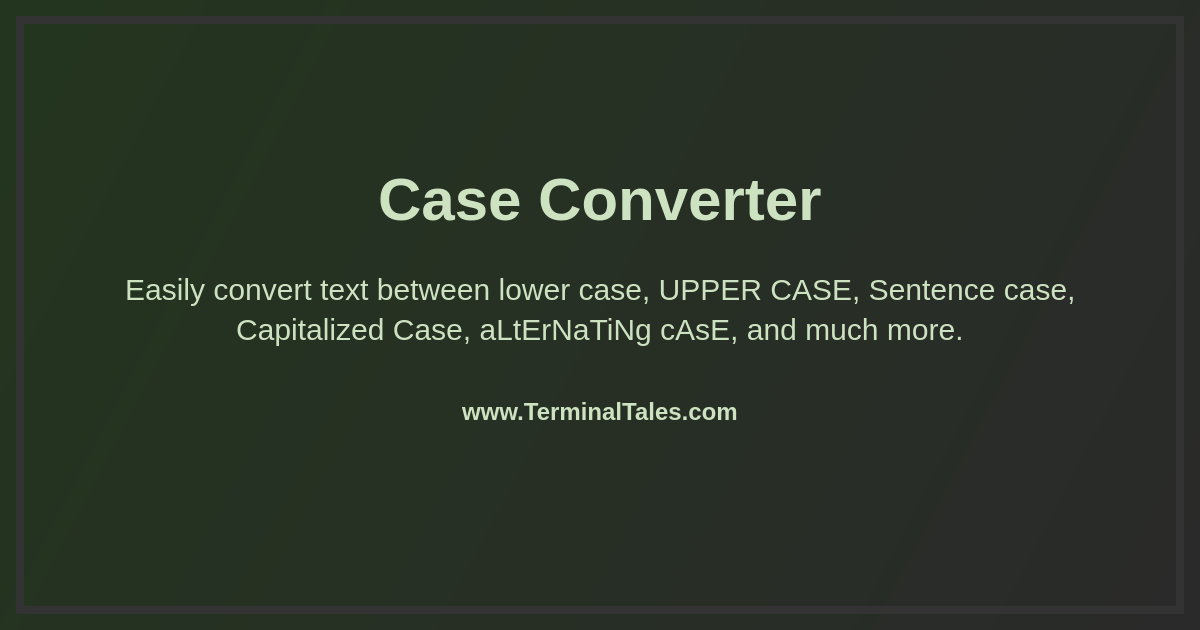
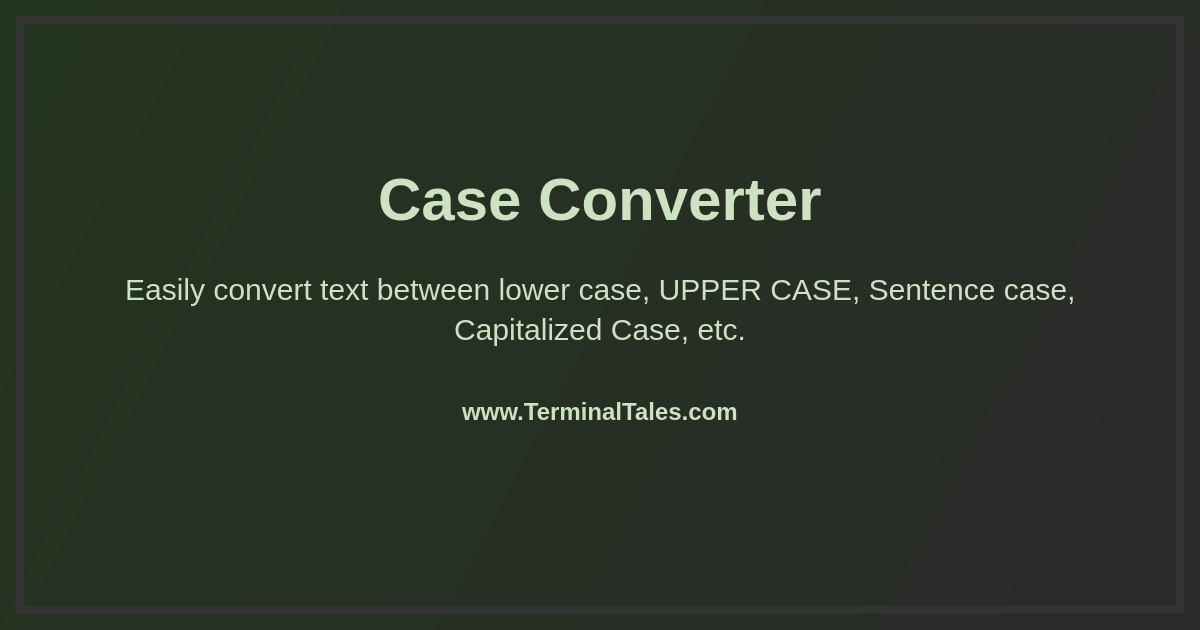
deploy: dc4636622a578aa8a0ee418402a6ea8fbdf4c81a

Changed region(s): [[0.185, 0.4825, 0.8017, 0.5429]]

diff --git a/assets/components.js b/assets/components.js
@@ -1,2 +1,2 @@
 const __vite__mapDeps=(i,m=__vite__mapDeps,d=(m.f||(m.f=["./framework-main.js","./external-utils.js"])))=>i.map(i=>d[i]);
-import{j as e,H as N,r as i,a as w,S as T,M as S,X as L,b as P,T as R,U as F,C as M,c as I,D as b,d as z,E as A}from"./framework-main.js";import{L as C,u as k}from"./navigation.js";import{T as H,A as O,a as D,F as U,l as _}from"./ui-components.js";import{g as j}from"./external-utils.js";const g=[{category:"HTML Tools",urlPath:"html-tools",originalFolder:"HTML-Tools",projects:[{name:"HTML Minify",displayName:"HTML Minify",description:"Minify HTML code effortlessly Reduce file size, improve page load times, and boost website performance.",toolicon:"Code",path:"/html-tools/html-minify",image:"/html-tools/html-minify.png",fileName:"HTML-Minify/index.jsx"}]},{category:"Text Tools",urlPath:"text-tools",originalFolder:"Text-Tools",projects:[{name:"Case Converter",displayName:"Case Converter",description:"Easily convert text between lower case, UPPER CASE, Sentence case, Capitalized Case, aLtErNaTiNg cAsE, and much more.",toolicon:"ALargeSmall",path:"/text-tools/case-converter",image:"/text-tools/case-converter.png",fileName:"Case-Converter/index.jsx"}]}],B="modulepreload",$=function(s,t){return new URL(s,t).href},v={},Y=function(t,a,n){let o=Promise.resolve();if(a&&a.length>0){const c=document.getElementsByTagName("link"),r=document.querySelector("meta[property=csp-nonce]"),m=(r==null?void 0:r.nonce)||(r==null?void 0:r.getAttribute("nonce"));o=Promise.allSettled(a.map(u=>{if(u=$(u,n),u in v)return;v[u]=!0;const d=u.endsWith(".css"),x=d?'[rel="stylesheet"]':"";if(!!n)for(let f=c.length-1;f>=0;f--){const p=c[f];if(p.href===u&&(!d||p.rel==="stylesheet"))return}else if(document.querySelector(`link[href="${u}"]${x}`))return;const h=document.createElement("link");if(h.rel=d?"stylesheet":B,d||(h.as="script"),h.crossOrigin="",h.href=u,m&&h.setAttribute("nonce",m),document.head.appendChild(h),d)return new Promise((f,p)=>{h.addEventListener("load",f),h.addEventListener("error",()=>p(new Error(`Unable to preload CSS for ${u}`)))})}))}function l(c){const r=new Event("vite:preloadError",{cancelable:!0});if(r.payload=c,window.dispatchEvent(r),!r.defaultPrevented)throw c}return o.then(c=>{for(const r of c||[])r.status==="rejected"&&l(r.reason);return t().catch(l)})},q=({project:s,Icon:t})=>e.jsx("div",{className:"bg-base-200/30 shadow-xl w-full card",children:e.jsxs("div",{className:"card-body",children:[e.jsxs("h3",{className:"card-title",children:[t?e.jsx(t,{className:"mr-1"}):e.jsx("span",{className:"mr-1",children:e.jsx(N,{})}),s.name]}),s.description&&e.jsx("p",{children:s.description}),e.jsx("div",{className:"justify-end card-actions",children:e.jsx(C,{to:s.path,className:"btn btn-primary",children:s.buttonText||"Try Now"})})]})}),G=async s=>{try{const{[s]:t}=await Y(async()=>{const{[s]:a}=await import("./framework-main.js").then(n=>n.l);return{[s]:a}},__vite__mapDeps([0,1]),import.meta.url);return t}catch(t){return console.error(`Error loading icon: ${s}`,t),null}},E=()=>{const[s,t]=i.useState({});return i.useEffect(()=>{(async()=>{const n={};g.forEach(c=>{c.projects.forEach(r=>{n[r.name]=G(r.toolicon)})});const o=await Promise.all(Object.values(n)),l=Object.keys(n).reduce((c,r,m)=>(c[r]=o[m],c),{});t(l)})()},[]),s},se=()=>e.jsx("footer",{className:"footer footer-center mt-4 rounded bg-base-200 p-10 text-base-content",children:e.jsxs("aside",{children:[e.jsxs("p",{children:["Copyright © ",new Date().getFullYear()," - MIT License"]}),e.jsxs("p",{children:["Made with 🧡 by"," ",e.jsx("a",{href:"https://github.com/",target:"_blank",children:"Harman Singh Hira"})," ","in Aotearoa 🇳🇿"]})]})}),W=({menuState:s,node:t})=>{const a=E();return e.jsx("aside",{ref:t,className:`fixed left-0 top-0 z-10 h-screen w-80 border-r-2 border-base-100 bg-base-200 transition-transform duration-300 xl:translate-x-0 ${s?"translate-x-0":"-translate-x-full"}`,children:e.jsx("div",{className:"pt-16",children:e.jsx("div",{className:"p-4",children:e.jsx("ul",{className:"menu w-full rounded-box bg-base-200",children:g.map((n,o)=>e.jsx("li",{children:e.jsxs("details",{open:!0,children:[e.jsxs("summary",{className:"font-semibold",children:[e.jsx(w,{size:18}),n.category]}),e.jsx("ul",{children:n.projects.map((l,c)=>{const r=a[l.name];return e.jsx("li",{children:e.jsxs(C,{to:l.path,children:[r?e.jsx(r,{size:18}):e.jsx(N,{size:18}),l.name]})},c)})})]})},o))})})})})},X=()=>{const[s,t]=i.useState(!1);i.useEffect(()=>{localStorage.getItem("theme")==="dark"?(t(!0),document.documentElement.setAttribute("data-theme","dark")):(t(!1),document.documentElement.setAttribute("data-theme","light"))},[]);const a=()=>{const n=s?"light":"dark";t(!s),document.documentElement.setAttribute("data-theme",n),localStorage.setItem("theme",n)};return e.jsxs("label",{className:"btn btn-ghost swap swap-rotate transition-transform duration-100 hover:scale-110 hover:bg-transparent",children:[e.jsx("input",{type:"checkbox",className:"theme-controller",checked:s,onChange:a,"aria-label":"Toggle dark mode"}),e.jsx(T,{className:"swap-off"}),e.jsx(S,{className:"swap-on"})]})},V=({menuState:s,setMenuState:t,buttonNode:a})=>e.jsxs("nav",{className:"navbar fixed z-20 bg-base-300",children:[e.jsx("div",{className:"flex-none",children:e.jsx("button",{ref:a,className:"btn btn-square btn-ghost transition-transform duration-100 hover:scale-110 hover:bg-transparent xl:hidden",onClick:()=>t(!s),"aria-label":s?"Close menu":"Open menu",children:s?e.jsx(L,{}):e.jsx(P,{})})}),e.jsx("div",{className:"flex-1",children:e.jsxs("a",{className:"btn btn-ghost text-xl",href:"/",children:[e.jsx(R,{})," ",e.jsx("h1",{children:"TerminalTales"})]})}),e.jsxs("div",{children:[e.jsx("ul",{className:"menu menu-horizontal px-1",children:e.jsx("li",{children:e.jsxs("details",{children:[e.jsxs("summary",{children:[e.jsx(H,{size:20})," Follow"]}),e.jsxs("ul",{className:"rounded-t-none bg-base-100 p-2",children:[e.jsx("li",{children:e.jsxs("a",{href:"https://instagram.com/hsinghhira",children:[e.jsx(O,{size:20})," Instagram"]})}),e.jsx("li",{children:e.jsxs("a",{href:"https://github.com/HSinghHira",children:[e.jsx(D,{size:20}),"Github"]})}),e.jsx("li",{children:e.jsxs("a",{href:"https://hsinghhira.bsky.social/",children:[e.jsx(U,{size:20})," Bluesky"]})})]})]})})}),e.jsx(X,{})]})]}),te=()=>{const[s,t]=i.useState(!1),a=i.useRef(),n=i.useRef(),o=l=>{a.current.contains(l.target)||n.current.contains(l.target)||t(!1)};return i.useEffect(()=>(s?document.addEventListener("mousedown",o):document.removeEventListener("mousedown",o),()=>{document.removeEventListener("mousedown",o)}),[s]),e.jsxs(e.Fragment,{children:[e.jsx(V,{menuState:s,setMenuState:t,buttonNode:n}),e.jsx(W,{menuState:s,node:a})]})},J=(s,t)=>{const a=k();i.useEffect(()=>{const n=j.context(()=>{j.fromTo(s.current,{opacity:0,y:20},{opacity:1,y:0,duration:.1,ease:"power2.out",delay:.05})});return()=>n.revert()},[]),i.useEffect(()=>{const n=j.context(()=>{j.timeline().fromTo(t.current,{scaleY:0},{scaleY:1,duration:.1,ease:"power4.inOut"}).to(s.current,{opacity:0,y:-20,duration:.2}).to(t.current,{scaleY:0,duration:.1,ease:"power4.inOut"}).fromTo(s.current,{opacity:0,y:20},{opacity:1,y:0,duration:.1,ease:"power2.out"},"-=0.05")});return()=>n.revert()},[a.pathname])},ne=({children:s})=>{const t=i.useRef(null),a=i.useRef(null),n=i.useRef(null);return J(t,a),e.jsxs("div",{className:"relative",children:[e.jsx("div",{ref:a,className:"pointer-events-none fixed inset-0 z-50 origin-top bg-primary/10 backdrop-blur-sm",style:{scaleY:0}}),e.jsx("div",{ref:n,className:"pointer-events-none fixed inset-0 z-50 flex items-center justify-center",style:{opacity:0},children:e.jsx("div",{className:"h-12 w-12 animate-spin rounded-full border-4 border-primary border-t-transparent"})}),e.jsx("div",{ref:t,className:"transition-wrapper",children:s})]})},ae=({onFileContent:s})=>{const t=a=>{const n=a.target.files[0];if(n){const o=new FileReader;o.onload=l=>{const c=l.target.result;s&&s(c)},o.onerror=l=>{console.error("Error reading file:",l)},o.readAsText(n)}};return e.jsxs(e.Fragment,{children:[e.jsxs("label",{htmlFor:"fileUpload",className:"btn btn-secondary",children:[e.jsx(F,{className:"w-5 h-5 mr"}),e.jsx("span",{className:"sm:block hidden",children:"Choose File"})]}),e.jsx("input",{id:"fileUpload",type:"file",className:"hidden",accept:".html,.txt",onChange:t})]})},re=({output:s})=>{const[t,a]=i.useState(!1);return i.useEffect(()=>{if(t){const n=setTimeout(()=>a(!1),5e3);return()=>clearTimeout(n)}},[t]),e.jsx(_.CopyToClipboard,{text:s,onCopy:()=>a(!0),children:e.jsx("button",{className:"btn btn-secondary",children:t?e.jsxs("div",{className:"flex items-center",children:[e.jsx(M,{className:"w-5 h-5"})," ",e.jsx("span",{className:"sm:block hidden ml-2",children:" Copied"})]}):e.jsxs("div",{className:"flex items-center",children:[e.jsx(I,{className:"w-5 h-5"})," ",e.jsx("span",{className:"sm:block hidden ml-2",children:" Copy"})]})})})},oe=({formats:s=[],content:t})=>{const[a,n]=i.useState(s[0]||"txt"),[o,l]=i.useState(!1),c=i.useRef(null);i.useEffect(()=>{s.length>0&&!s.includes(a)&&n(s[0])},[s,a]),i.useEffect(()=>{const d=x=>{c.current&&!c.current.contains(x.target)&&l(!1)};return document.addEventListener("mousedown",d),()=>{document.removeEventListener("mousedown",d)}},[]);const r=d=>`output_${Math.floor(Math.random()*1e4)}.${d}`,m=d=>{const x=r(d),y=new Blob([t],{type:"text/plain"}),h=document.createElement("a");h.href=URL.createObjectURL(y),h.download=x,h.click()},u=()=>{l(!o)};return s.length===0?e.jsxs("button",{onClick:()=>m("txt"),className:"flex btn btn-secondary",children:[e.jsx(b,{className:"w-5 h-5 mr"})," ",e.jsx("span",{className:"sm:block hidden ml-2",children:" Save as .TXT"})]}):s.length===1?e.jsxs("button",{onClick:()=>m(s[0]),className:"flex btn btn-secondary",children:[e.jsx(b,{className:"w-5 h-5 mr"})," ",e.jsxs("span",{className:"sm:block hidden ml-2",children:[" ","Save as .",s[0].toUpperCase()," "]})]}):e.jsxs("div",{className:"inline-block relative text-left",ref:c,children:[e.jsx("button",{type:"button",className:"btn btn-secondary",onClick:u,"aria-expanded":o,"aria-haspopup":"true",children:e.jsxs("div",{className:"flex items-center",children:[e.jsx(b,{className:"w-5 h-5"})," ",e.jsx("span",{className:"sm:block hidden ml-2",children:" Save as"}),e.jsx(z,{className:`ml-2 w-5 h-5 ${o?"rotate-180":""}`})]})}),o&&e.jsx("div",{className:"right-0 absolute bg-base-200 ring-opacity-5 shadow-lg mt-2 rounded-md divide-y ring-1 ring-black w-56 origin-top-right",children:e.jsx("div",{className:"py-1",role:"menu","aria-orientation":"vertical","aria-labelledby":"options-menu",children:s.map(d=>e.jsxs("a",{href:"#",className:"block hover:bg-base-300 px-4 py-2 text-sm",role:"menuitem",onClick:x=>{x.preventDefault(),n(d),l(!1),m(d)},children:["Save as .",d.toUpperCase()," Format"]},d))})})]})},le=()=>{const s=k(),t=E(),[a]=s.pathname.split("/").slice(1),n=g.find(r=>{var m;return((m=r.urlPath)==null?void 0:m.toLowerCase())===a});if(!n)return console.log("Category not found."),null;const o=s.pathname,l=n.projects.filter(r=>r.path!==o);if(l.length===0)return null;const c=l.slice(0,2);return e.jsxs("div",{className:"mt-8 p-4",children:[e.jsxs("h2",{className:"mb-4 flex items-center text-2xl font-semibold",children:[e.jsx(w,{className:"mr-2 duration-300 hover:rotate-12",size:30})," Related Projects"]}),e.jsx("div",{className:"grid grid-cols-1 gap-4 md:grid-cols-2",children:c.map((r,m)=>{const u=t[r.name]||null;return e.jsx(q,{project:r,Icon:u},m)})})]})},ce=({onClear:s})=>e.jsxs("button",{className:"btn btn-secondary",onClick:s,children:[e.jsx(A,{className:"w-5"})," ",e.jsx("span",{className:"ml-2 hidden sm:block",children:" Clear"})]});export{q as C,se as F,te as H,ne as P,le as R,oe as S,Y as _,ae as a,re as b,ce as c,g as r,E as u};
+import{j as e,H as N,r as i,a as w,S as T,M as S,X as L,b as P,T as R,U as F,C as M,c as I,D as b,d as z,E as H}from"./framework-main.js";import{L as C,u as k}from"./navigation.js";import{T as A,A as O,a as D,F as U,l as _}from"./ui-components.js";import{g as j}from"./external-utils.js";const g=[{category:"HTML Tools",urlPath:"html-tools",originalFolder:"HTML-Tools",projects:[{name:"HTML Minify",displayName:"HTML Minify",description:"Minify HTML code effortlessly Reduce file size, improve page load times, and boost website performance.",toolicon:"Code",path:"/html-tools/html-minify",image:"/html-tools/html-minify.png",fileName:"HTML-Minify/index.jsx"}]},{category:"Text Tools",urlPath:"text-tools",originalFolder:"Text-Tools",projects:[{name:"Case Converter",displayName:"Case Converter",description:"Easily convert text between lower case, UPPER CASE, Sentence case, Capitalized Case, etc.",toolicon:"ALargeSmall",path:"/text-tools/case-converter",image:"/text-tools/case-converter.png",fileName:"Case-Converter/index.jsx"}]}],B="modulepreload",$=function(s,t){return new URL(s,t).href},v={},Y=function(t,a,n){let o=Promise.resolve();if(a&&a.length>0){const c=document.getElementsByTagName("link"),r=document.querySelector("meta[property=csp-nonce]"),m=(r==null?void 0:r.nonce)||(r==null?void 0:r.getAttribute("nonce"));o=Promise.allSettled(a.map(u=>{if(u=$(u,n),u in v)return;v[u]=!0;const d=u.endsWith(".css"),x=d?'[rel="stylesheet"]':"";if(!!n)for(let f=c.length-1;f>=0;f--){const p=c[f];if(p.href===u&&(!d||p.rel==="stylesheet"))return}else if(document.querySelector(`link[href="${u}"]${x}`))return;const h=document.createElement("link");if(h.rel=d?"stylesheet":B,d||(h.as="script"),h.crossOrigin="",h.href=u,m&&h.setAttribute("nonce",m),document.head.appendChild(h),d)return new Promise((f,p)=>{h.addEventListener("load",f),h.addEventListener("error",()=>p(new Error(`Unable to preload CSS for ${u}`)))})}))}function l(c){const r=new Event("vite:preloadError",{cancelable:!0});if(r.payload=c,window.dispatchEvent(r),!r.defaultPrevented)throw c}return o.then(c=>{for(const r of c||[])r.status==="rejected"&&l(r.reason);return t().catch(l)})},q=({project:s,Icon:t})=>e.jsx("div",{className:"bg-base-200/30 shadow-xl w-full card",children:e.jsxs("div",{className:"card-body",children:[e.jsxs("h3",{className:"card-title",children:[t?e.jsx(t,{className:"mr-1"}):e.jsx("span",{className:"mr-1",children:e.jsx(N,{})}),s.name]}),s.description&&e.jsx("p",{children:s.description}),e.jsx("div",{className:"justify-end card-actions",children:e.jsx(C,{to:s.path,className:"btn btn-primary",children:s.buttonText||"Try Now"})})]})}),G=async s=>{try{const{[s]:t}=await Y(async()=>{const{[s]:a}=await import("./framework-main.js").then(n=>n.l);return{[s]:a}},__vite__mapDeps([0,1]),import.meta.url);return t}catch(t){return console.error(`Error loading icon: ${s}`,t),null}},E=()=>{const[s,t]=i.useState({});return i.useEffect(()=>{(async()=>{const n={};g.forEach(c=>{c.projects.forEach(r=>{n[r.name]=G(r.toolicon)})});const o=await Promise.all(Object.values(n)),l=Object.keys(n).reduce((c,r,m)=>(c[r]=o[m],c),{});t(l)})()},[]),s},se=()=>e.jsx("footer",{className:"footer footer-center mt-4 rounded bg-base-200 p-10 text-base-content",children:e.jsxs("aside",{children:[e.jsxs("p",{children:["Copyright © ",new Date().getFullYear()," - MIT License"]}),e.jsxs("p",{children:["Made with 🧡 by"," ",e.jsx("a",{href:"https://github.com/",target:"_blank",children:"Harman Singh Hira"})," ","in Aotearoa 🇳🇿"]})]})}),W=({menuState:s,node:t})=>{const a=E();return e.jsx("aside",{ref:t,className:`fixed left-0 top-0 z-10 h-screen w-80 border-r-2 border-base-100 bg-base-200 transition-transform duration-300 xl:translate-x-0 ${s?"translate-x-0":"-translate-x-full"}`,children:e.jsx("div",{className:"pt-16",children:e.jsx("div",{className:"p-4",children:e.jsx("ul",{className:"menu w-full rounded-box bg-base-200",children:g.map((n,o)=>e.jsx("li",{children:e.jsxs("details",{open:!0,children:[e.jsxs("summary",{className:"font-semibold",children:[e.jsx(w,{size:18}),n.category]}),e.jsx("ul",{children:n.projects.map((l,c)=>{const r=a[l.name];return e.jsx("li",{children:e.jsxs(C,{to:l.path,children:[r?e.jsx(r,{size:18}):e.jsx(N,{size:18}),l.name]})},c)})})]})},o))})})})})},X=()=>{const[s,t]=i.useState(!1);i.useEffect(()=>{localStorage.getItem("theme")==="dark"?(t(!0),document.documentElement.setAttribute("data-theme","dark")):(t(!1),document.documentElement.setAttribute("data-theme","light"))},[]);const a=()=>{const n=s?"light":"dark";t(!s),document.documentElement.setAttribute("data-theme",n),localStorage.setItem("theme",n)};return e.jsxs("label",{className:"btn btn-ghost swap swap-rotate transition-transform duration-100 hover:scale-110 hover:bg-transparent",children:[e.jsx("input",{type:"checkbox",className:"theme-controller",checked:s,onChange:a,"aria-label":"Toggle dark mode"}),e.jsx(T,{className:"swap-off"}),e.jsx(S,{className:"swap-on"})]})},V=({menuState:s,setMenuState:t,buttonNode:a})=>e.jsxs("nav",{className:"navbar fixed z-20 bg-base-300",children:[e.jsx("div",{className:"flex-none",children:e.jsx("button",{ref:a,className:"btn btn-square btn-ghost transition-transform duration-100 hover:scale-110 hover:bg-transparent xl:hidden",onClick:()=>t(!s),"aria-label":s?"Close menu":"Open menu",children:s?e.jsx(L,{}):e.jsx(P,{})})}),e.jsx("div",{className:"flex-1",children:e.jsxs("a",{className:"btn btn-ghost text-xl",href:"/",children:[e.jsx(R,{})," ",e.jsx("h1",{children:"TerminalTales"})]})}),e.jsxs("div",{children:[e.jsx("ul",{className:"menu menu-horizontal px-1",children:e.jsx("li",{children:e.jsxs("details",{children:[e.jsxs("summary",{children:[e.jsx(A,{size:20})," Follow"]}),e.jsxs("ul",{className:"rounded-t-none bg-base-100 p-2",children:[e.jsx("li",{children:e.jsxs("a",{href:"https://instagram.com/hsinghhira",children:[e.jsx(O,{size:20})," Instagram"]})}),e.jsx("li",{children:e.jsxs("a",{href:"https://github.com/HSinghHira",children:[e.jsx(D,{size:20}),"Github"]})}),e.jsx("li",{children:e.jsxs("a",{href:"https://hsinghhira.bsky.social/",children:[e.jsx(U,{size:20})," Bluesky"]})})]})]})})}),e.jsx(X,{})]})]}),te=()=>{const[s,t]=i.useState(!1),a=i.useRef(),n=i.useRef(),o=l=>{a.current.contains(l.target)||n.current.contains(l.target)||t(!1)};return i.useEffect(()=>(s?document.addEventListener("mousedown",o):document.removeEventListener("mousedown",o),()=>{document.removeEventListener("mousedown",o)}),[s]),e.jsxs(e.Fragment,{children:[e.jsx(V,{menuState:s,setMenuState:t,buttonNode:n}),e.jsx(W,{menuState:s,node:a})]})},J=(s,t)=>{const a=k();i.useEffect(()=>{const n=j.context(()=>{j.fromTo(s.current,{opacity:0,y:20},{opacity:1,y:0,duration:.1,ease:"power2.out",delay:.05})});return()=>n.revert()},[]),i.useEffect(()=>{const n=j.context(()=>{j.timeline().fromTo(t.current,{scaleY:0},{scaleY:1,duration:.1,ease:"power4.inOut"}).to(s.current,{opacity:0,y:-20,duration:.2}).to(t.current,{scaleY:0,duration:.1,ease:"power4.inOut"}).fromTo(s.current,{opacity:0,y:20},{opacity:1,y:0,duration:.1,ease:"power2.out"},"-=0.05")});return()=>n.revert()},[a.pathname])},ne=({children:s})=>{const t=i.useRef(null),a=i.useRef(null),n=i.useRef(null);return J(t,a),e.jsxs("div",{className:"relative",children:[e.jsx("div",{ref:a,className:"pointer-events-none fixed inset-0 z-50 origin-top bg-primary/10 backdrop-blur-sm",style:{scaleY:0}}),e.jsx("div",{ref:n,className:"pointer-events-none fixed inset-0 z-50 flex items-center justify-center",style:{opacity:0},children:e.jsx("div",{className:"h-12 w-12 animate-spin rounded-full border-4 border-primary border-t-transparent"})}),e.jsx("div",{ref:t,className:"transition-wrapper",children:s})]})},ae=({onFileContent:s})=>{const t=a=>{const n=a.target.files[0];if(n){const o=new FileReader;o.onload=l=>{const c=l.target.result;s&&s(c)},o.onerror=l=>{console.error("Error reading file:",l)},o.readAsText(n)}};return e.jsxs(e.Fragment,{children:[e.jsxs("label",{htmlFor:"fileUpload",className:"btn btn-secondary",children:[e.jsx(F,{className:"w-5 h-5 mr"}),e.jsx("span",{className:"sm:block hidden",children:"Choose File"})]}),e.jsx("input",{id:"fileUpload",type:"file",className:"hidden",accept:".html,.txt",onChange:t})]})},re=({output:s})=>{const[t,a]=i.useState(!1);return i.useEffect(()=>{if(t){const n=setTimeout(()=>a(!1),5e3);return()=>clearTimeout(n)}},[t]),e.jsx(_.CopyToClipboard,{text:s,onCopy:()=>a(!0),children:e.jsx("button",{className:"btn btn-secondary",children:t?e.jsxs("div",{className:"flex items-center",children:[e.jsx(M,{className:"w-5 h-5"})," ",e.jsx("span",{className:"sm:block hidden ml-2",children:" Copied"})]}):e.jsxs("div",{className:"flex items-center",children:[e.jsx(I,{className:"w-5 h-5"})," ",e.jsx("span",{className:"sm:block hidden ml-2",children:" Copy"})]})})})},oe=({formats:s=[],content:t})=>{const[a,n]=i.useState(s[0]||"txt"),[o,l]=i.useState(!1),c=i.useRef(null);i.useEffect(()=>{s.length>0&&!s.includes(a)&&n(s[0])},[s,a]),i.useEffect(()=>{const d=x=>{c.current&&!c.current.contains(x.target)&&l(!1)};return document.addEventListener("mousedown",d),()=>{document.removeEventListener("mousedown",d)}},[]);const r=d=>`output_${Math.floor(Math.random()*1e4)}.${d}`,m=d=>{const x=r(d),y=new Blob([t],{type:"text/plain"}),h=document.createElement("a");h.href=URL.createObjectURL(y),h.download=x,h.click()},u=()=>{l(!o)};return s.length===0?e.jsxs("button",{onClick:()=>m("txt"),className:"flex btn btn-secondary",children:[e.jsx(b,{className:"w-5 h-5 mr"})," ",e.jsx("span",{className:"sm:block hidden ml-2",children:" Save as .TXT"})]}):s.length===1?e.jsxs("button",{onClick:()=>m(s[0]),className:"flex btn btn-secondary",children:[e.jsx(b,{className:"w-5 h-5 mr"})," ",e.jsxs("span",{className:"sm:block hidden ml-2",children:[" ","Save as .",s[0].toUpperCase()," "]})]}):e.jsxs("div",{className:"inline-block relative text-left",ref:c,children:[e.jsx("button",{type:"button",className:"btn btn-secondary",onClick:u,"aria-expanded":o,"aria-haspopup":"true",children:e.jsxs("div",{className:"flex items-center",children:[e.jsx(b,{className:"w-5 h-5"})," ",e.jsx("span",{className:"sm:block hidden ml-2",children:" Save as"}),e.jsx(z,{className:`ml-2 w-5 h-5 ${o?"rotate-180":""}`})]})}),o&&e.jsx("div",{className:"right-0 absolute bg-base-200 ring-opacity-5 shadow-lg mt-2 rounded-md divide-y ring-1 ring-black w-56 origin-top-right",children:e.jsx("div",{className:"py-1",role:"menu","aria-orientation":"vertical","aria-labelledby":"options-menu",children:s.map(d=>e.jsxs("a",{href:"#",className:"block hover:bg-base-300 px-4 py-2 text-sm",role:"menuitem",onClick:x=>{x.preventDefault(),n(d),l(!1),m(d)},children:["Save as .",d.toUpperCase()," Format"]},d))})})]})},le=()=>{const s=k(),t=E(),[a]=s.pathname.split("/").slice(1),n=g.find(r=>{var m;return((m=r.urlPath)==null?void 0:m.toLowerCase())===a});if(!n)return console.log("Category not found."),null;const o=s.pathname,l=n.projects.filter(r=>r.path!==o);if(l.length===0)return null;const c=l.slice(0,2);return e.jsxs("div",{className:"mt-8 p-4",children:[e.jsxs("h2",{className:"mb-4 flex items-center text-2xl font-semibold",children:[e.jsx(w,{className:"mr-2 duration-300 hover:rotate-12",size:30})," Related Projects"]}),e.jsx("div",{className:"grid grid-cols-1 gap-4 md:grid-cols-2",children:c.map((r,m)=>{const u=t[r.name]||null;return e.jsx(q,{project:r,Icon:u},m)})})]})},ce=({onClear:s})=>e.jsxs("button",{className:"btn btn-secondary",onClick:s,children:[e.jsx(H,{className:"w-5"})," ",e.jsx("span",{className:"ml-2 hidden sm:block",children:" Clear"})]});export{q as C,se as F,te as H,ne as P,le as R,oe as S,Y as _,ae as a,re as b,ce as c,g as r,E as u};
